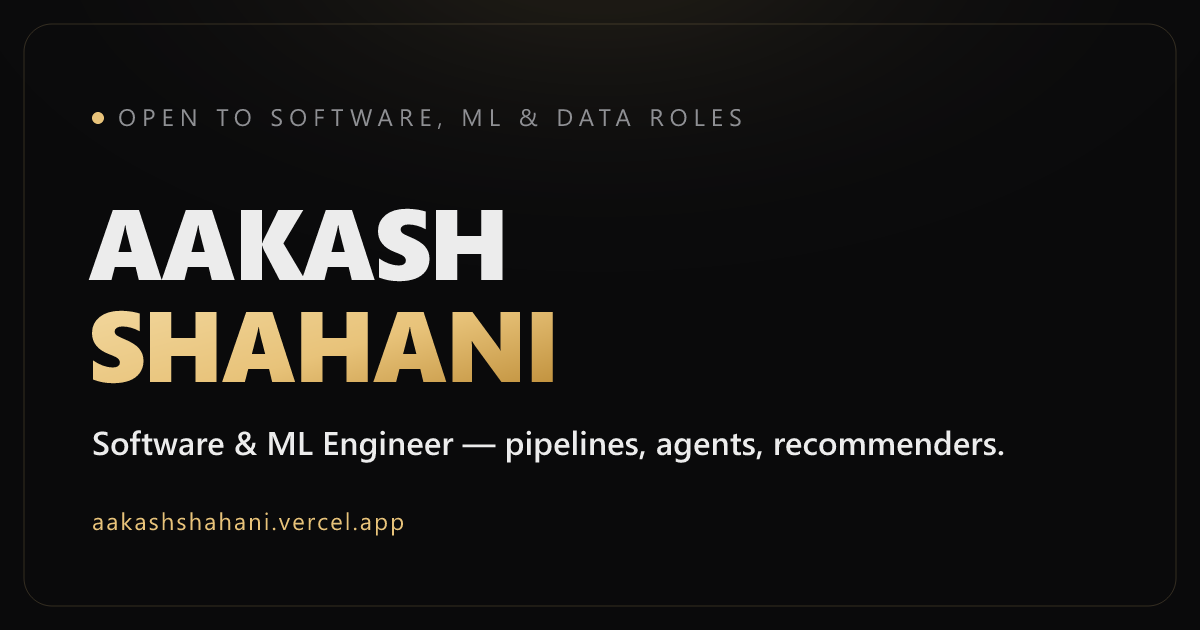
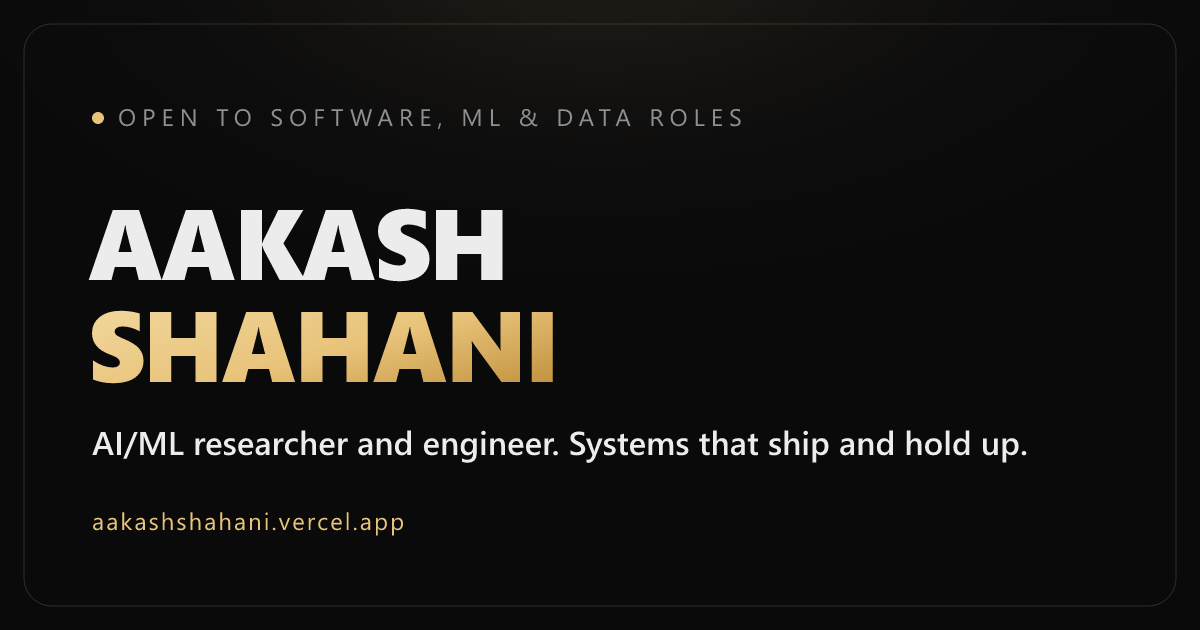
Remove HeroField effect; add dialog semantics + focus trap to command palette; refresh OG image copy

Changed region(s): [[0.0617, 0.6635, 0.8633, 0.7238]]

diff --git a/src/components/CommandPalette.tsx b/src/components/CommandPalette.tsx
@@ -16,6 +16,8 @@ export default function CommandPalette() {
   const [open, setOpen] = useState(false)
   const [query, setQuery] = useState('')
   const inputRef = useRef<HTMLInputElement>(null)
+  const panelRef = useRef<HTMLDivElement>(null)
+  const lastFocused = useRef<HTMLElement | null>(null)
   const navigate = useNavigate()
   const location = useLocation()
 
@@ -88,9 +90,32 @@ export default function CommandPalette() {
   }, [])
 
   useEffect(() => {
-    if (open) setTimeout(() => inputRef.current?.focus(), 40)
-    else setQuery('')
+    if (open) {
+      lastFocused.current = document.activeElement as HTMLElement
+      setTimeout(() => inputRef.current?.focus(), 40)
+    } else {
+      setQuery('')
+      lastFocused.current?.focus?.()
+    }
   }, [open])
+
+  // Keep Tab focus inside the open palette (accessibility).
+  const onPanelKeyDown = (e: React.KeyboardEvent) => {
+    if (e.key !== 'Tab') return
+    const nodes = panelRef.current?.querySelectorAll<HTMLElement>(
+      'input, button, a[href], [tabindex]:not([tabindex="-1"])',
+    )
+    if (!nodes || nodes.length === 0) return
+    const first = nodes[0]
+    const last = nodes[nodes.length - 1]
+    if (e.shiftKey && document.activeElement === first) {
+      e.preventDefault()
+      last.focus()
+    } else if (!e.shiftKey && document.activeElement === last) {
+      e.preventDefault()
+      first.focus()
+    }
+  }
 
   const runAt = (i: number) => {
     const cmd = filtered[i]
@@ -110,12 +135,17 @@ export default function CommandPalette() {
           onClick={() => setOpen(false)}
         >
           <motion.div
+            ref={panelRef}
+            role="dialog"
+            aria-modal="true"
+            aria-label="Command palette"
             className="glass w-full max-w-xl overflow-hidden rounded-2xl shadow-2xl"
             initial={{ opacity: 0, scale: 0.97, y: -8 }}
             animate={{ opacity: 1, scale: 1, y: 0 }}
             exit={{ opacity: 0, scale: 0.97, y: -8 }}
             transition={{ duration: 0.18 }}
             onClick={(e) => e.stopPropagation()}
+            onKeyDown={onPanelKeyDown}
           >
             <div className="flex items-center gap-3 border-b border-line px-4">
               <span className="text-muted">⌘</span>

diff --git a/src/views/Home.tsx b/src/views/Home.tsx
@@ -16,7 +16,6 @@ import { useSeo } from '../lib/useSeo'
 import { useRepoStats, type RepoStat } from '../lib/useRepoStats'
 import ResumeButton from '../components/ResumeButton'
 import SocialLinks from '../components/SocialLinks'
-import HeroField from '../components/fx/HeroField'
 import Magnetic from '../components/fx/Magnetic'
 import CountUp from '../components/fx/CountUp'
 import { willPreload } from '../components/Preloader'
@@ -132,7 +131,6 @@ function Hero() {
 
   return (
     <section id="top" className="hero-bg relative flex min-h-screen flex-col justify-center px-6 pt-24">
-      <HeroField />
       <div className="pointer-events-none relative mx-auto w-full max-w-6xl">
         <div>
           <div className="max-w-3xl">
